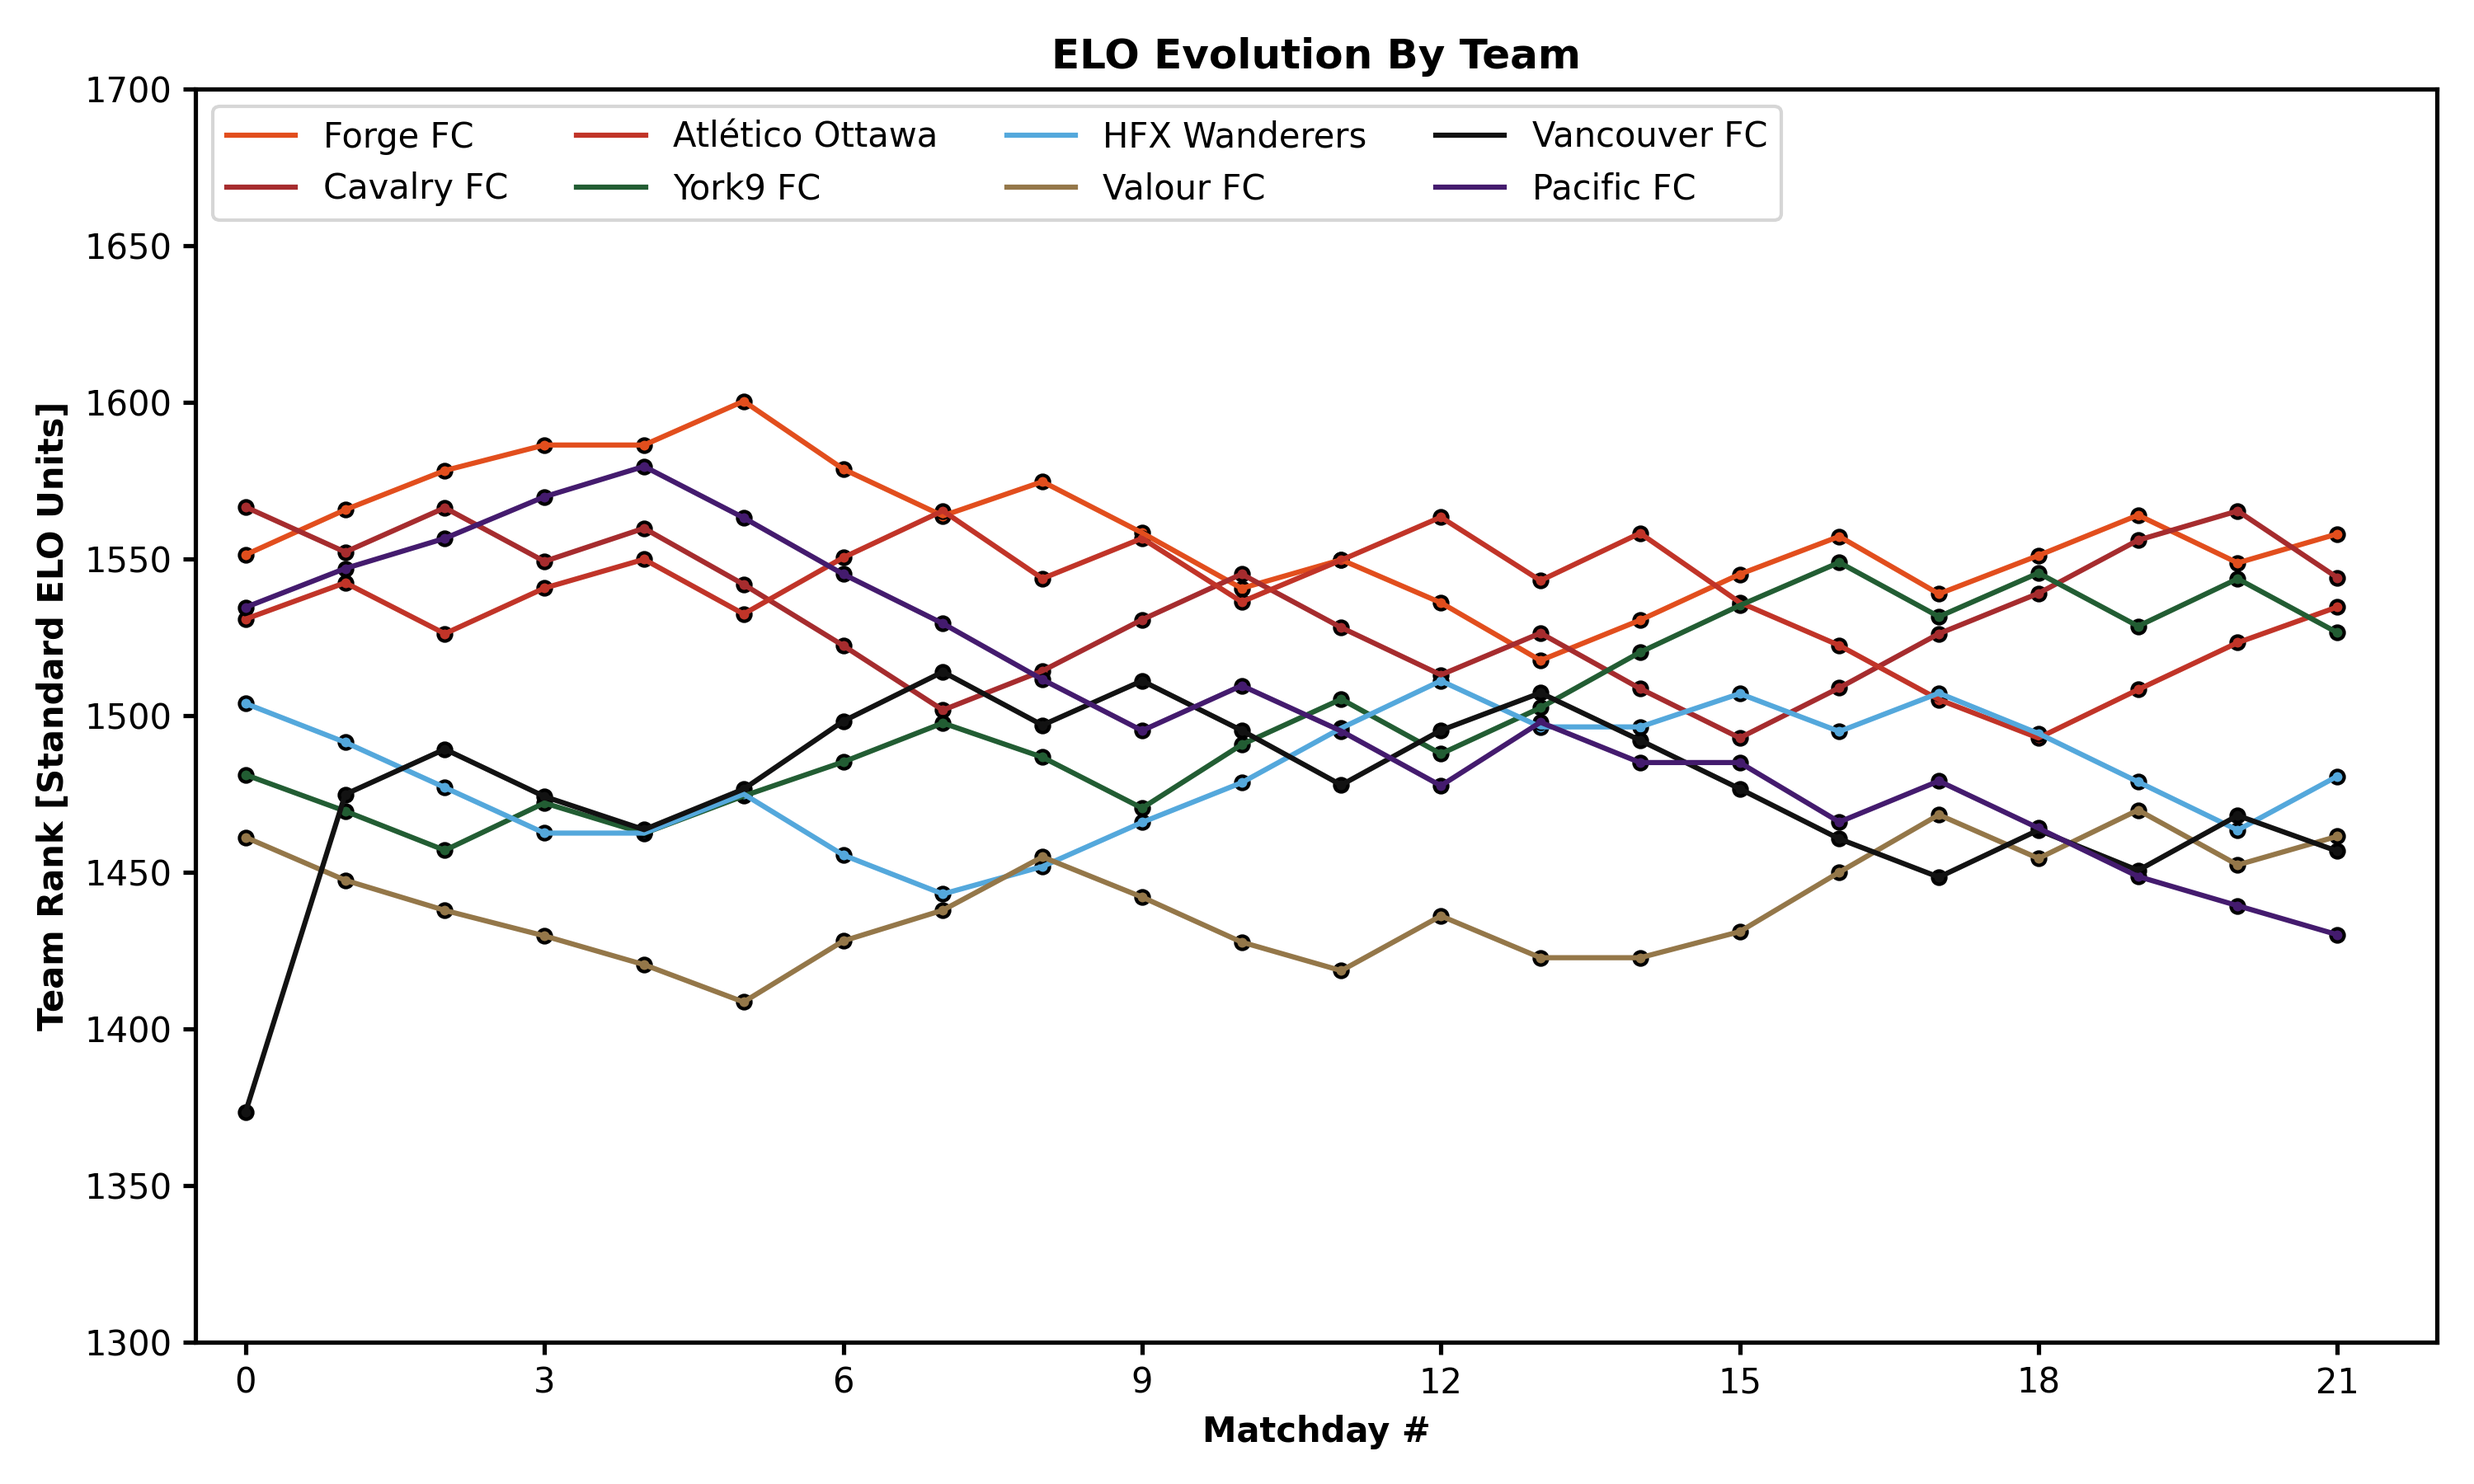
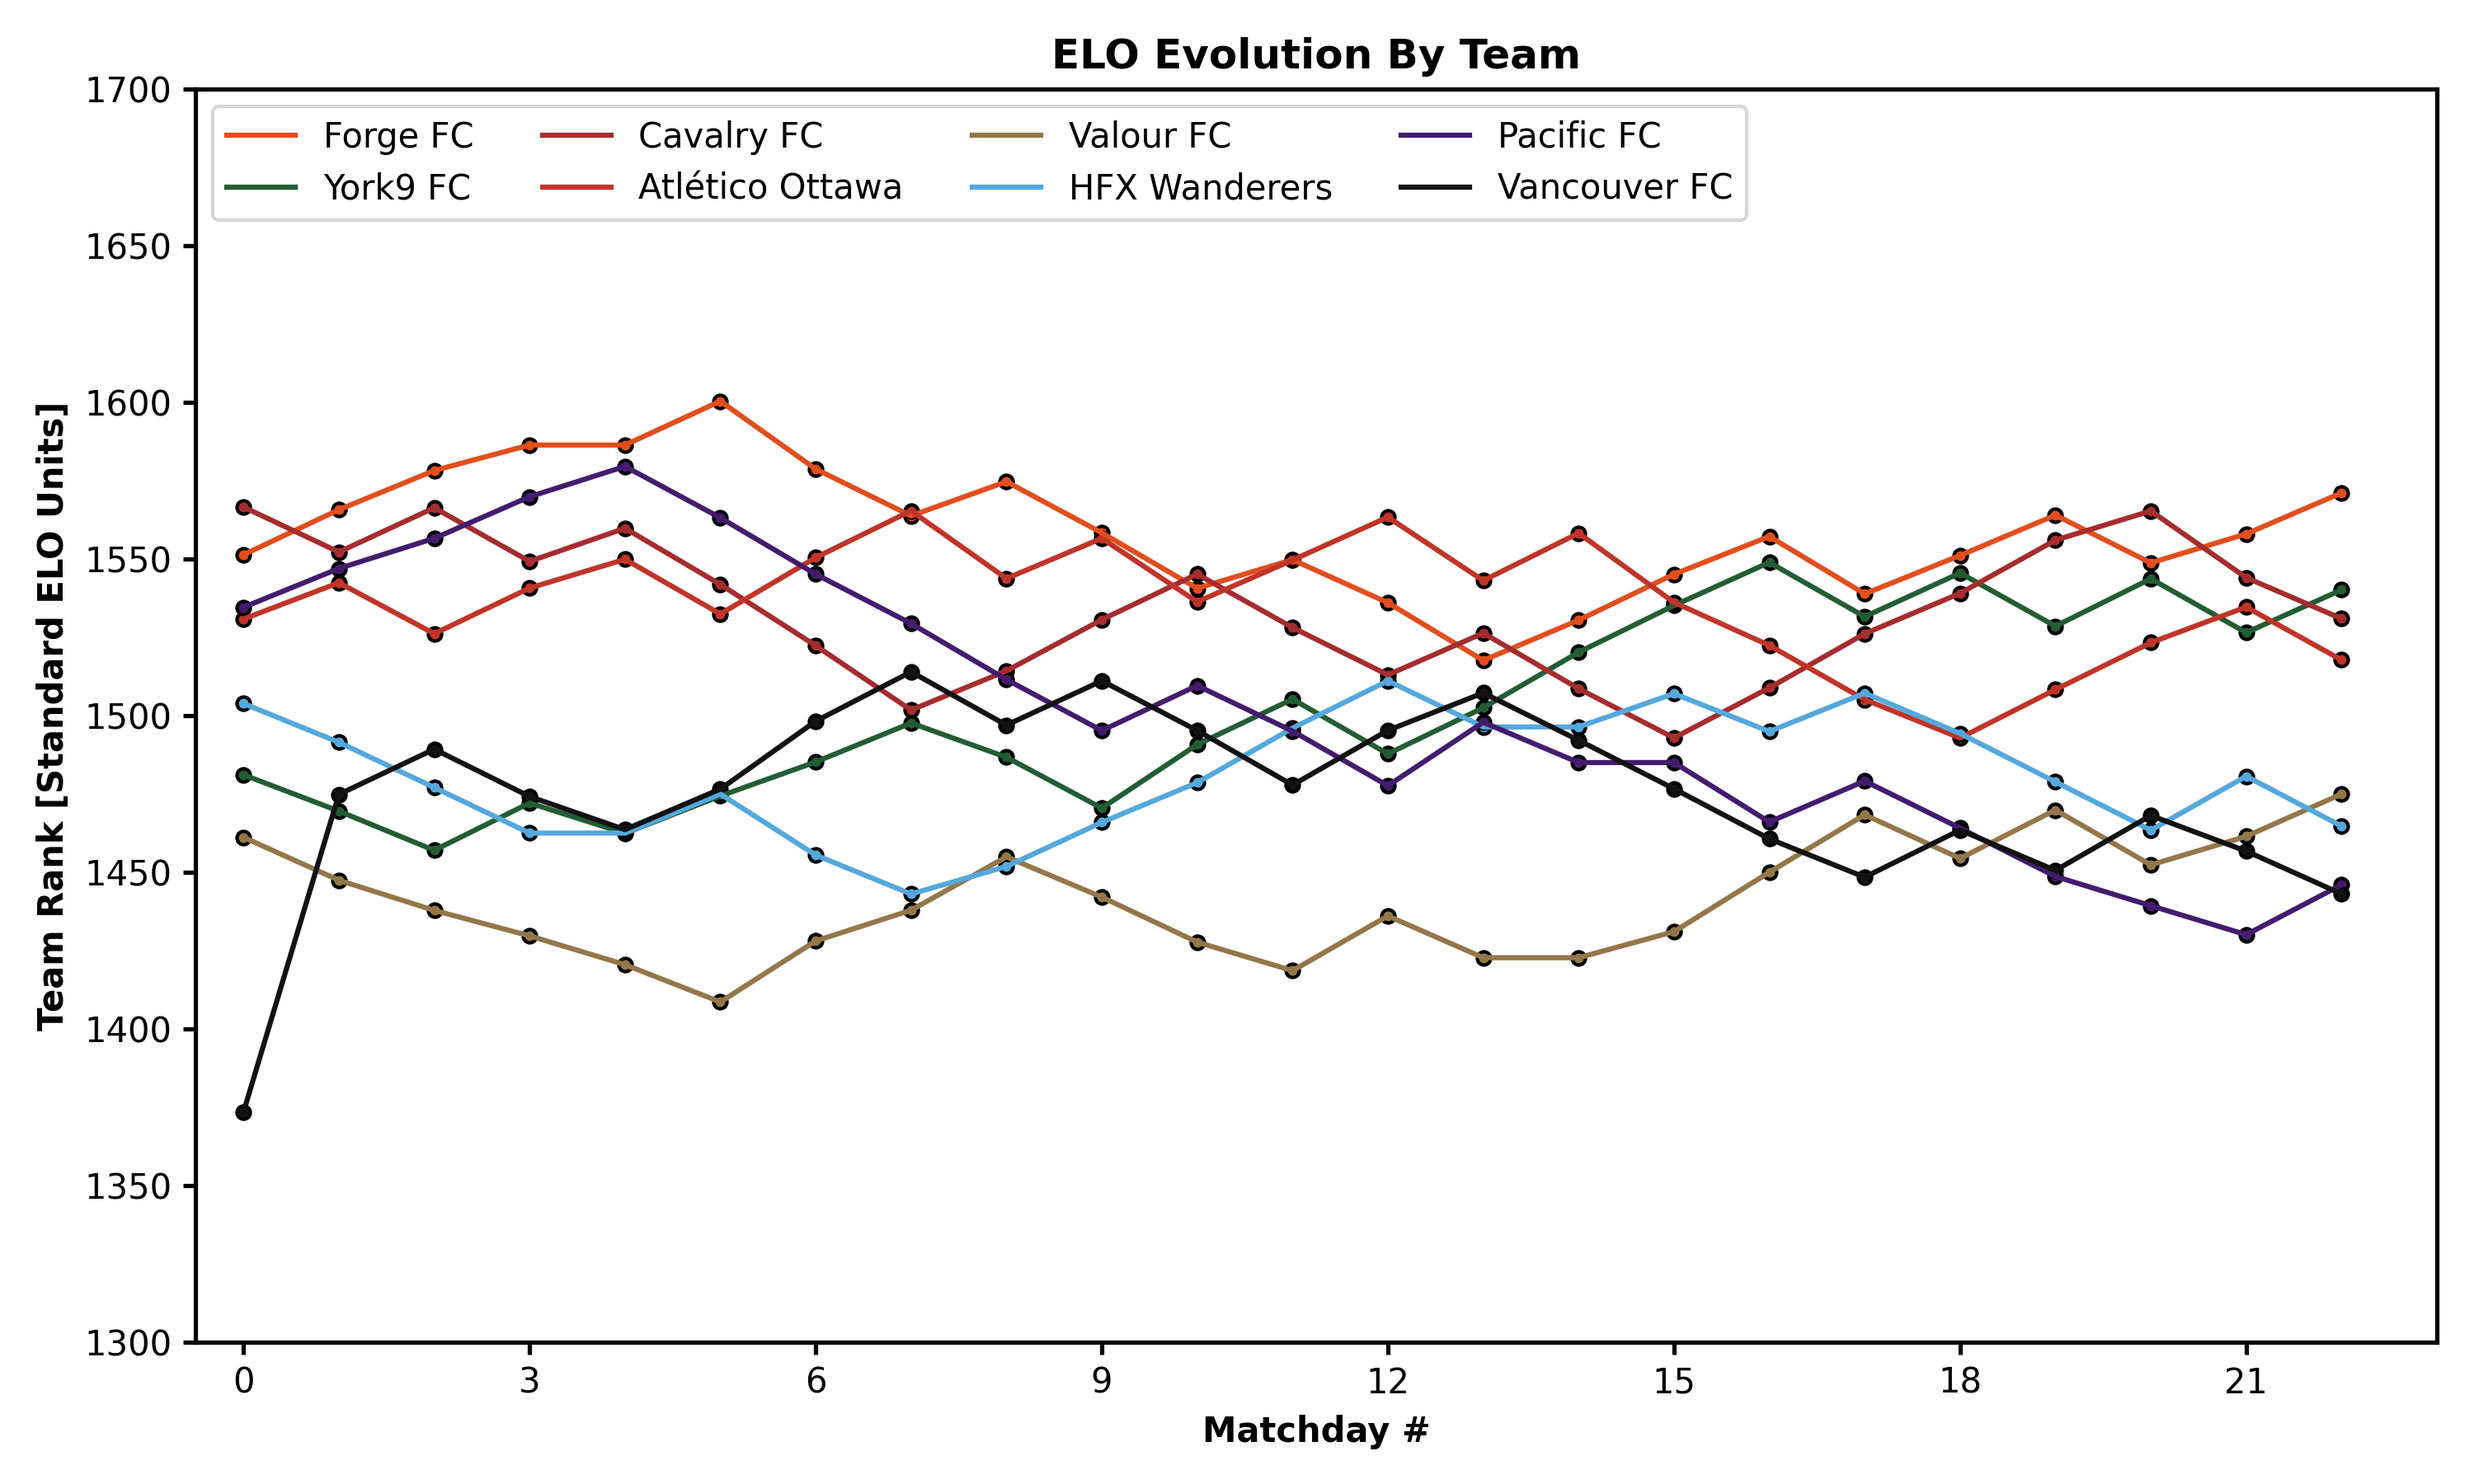
rank updates Sep 11, 2024

diff --git a/index.html b/index.html
@@ -1267,57 +1267,117 @@
       <td>22</td>
       <td>2024-09-06</td>
       <td>Vancouver FC</td>
-      <td/>
+      <td>0–1</td>
       <td>York United</td>
-      <td/>
-      <td/>
+      <td>0</td>
+      <td>1</td>
       <td>44.91%</td>
       <td>55.09%</td>
-      <td/>
-      <td/>
-      <td/>
-      <td/>
+      <td>True</td>
+      <td>0.202</td>
+      <td>0.214</td>
+      <td>0.145</td>
     </tr>
     <tr>
       <td>22</td>
       <td>2024-09-07</td>
       <td>Forge FC</td>
-      <td/>
+      <td>2–1</td>
       <td>Cavalry FC</td>
-      <td/>
-      <td/>
+      <td>2</td>
+      <td>1</td>
       <td>56.89%</td>
       <td>43.11%</td>
-      <td/>
-      <td/>
-      <td/>
-      <td/>
+      <td>True</td>
+      <td>0.186</td>
+      <td>0.213</td>
+      <td>0.146</td>
     </tr>
     <tr>
       <td>22</td>
       <td>2024-09-07</td>
       <td>Pacific FC</td>
-      <td/>
+      <td>3–0</td>
       <td>HFX Wanderers</td>
-      <td/>
-      <td/>
+      <td>3</td>
+      <td>0</td>
       <td>47.65%</td>
       <td>52.35%</td>
+      <td>False</td>
+      <td>0.274</td>
+      <td>0.214</td>
+      <td>0.143</td>
+    </tr>
+    <tr>
+      <td>22</td>
+      <td>2024-09-09</td>
+      <td>Valour FC</td>
+      <td>1–1</td>
+      <td>Atlético Ottawa</td>
+      <td>1</td>
+      <td>1</td>
+      <td>44.42%</td>
+      <td>55.58%</td>
+      <td>False</td>
+      <td>0.112</td>
+      <td>0.213</td>
+      <td>0.148</td>
+    </tr>
+    <tr>
+      <td>23</td>
+      <td>2024-09-13</td>
+      <td>York United</td>
+      <td/>
+      <td>Valour FC</td>
+      <td/>
+      <td/>
+      <td>63.93%</td>
+      <td>36.07%</td>
       <td/>
       <td/>
       <td/>
       <td/>
     </tr>
     <tr>
-      <td>22</td>
-      <td>2024-09-09</td>
-      <td>Valour FC</td>
+      <td>23</td>
+      <td>2024-09-14</td>
+      <td>HFX Wanderers</td>
+      <td/>
+      <td>Forge FC</td>
+      <td/>
+      <td/>
+      <td>39.77%</td>
+      <td>60.23%</td>
+      <td/>
+      <td/>
+      <td/>
+      <td/>
+    </tr>
+    <tr>
+      <td>23</td>
+      <td>2024-09-14</td>
+      <td>Pacific FC</td>
+      <td/>
+      <td>Vancouver FC</td>
+      <td/>
+      <td/>
+      <td>55.33%</td>
+      <td>44.67%</td>
+      <td/>
+      <td/>
+      <td/>
+      <td/>
+    </tr>
+    <tr>
+      <td>23</td>
+      <td>2024-09-15</td>
+      <td>Cavalry FC</td>
       <td/>
       <td>Atlético Ottawa</td>
       <td/>
       <td/>
-      <td>44.42%</td>
-      <td>55.58%</td>
+      <td>56.79%</td>
+      <td>43.21%</td>
       <td/>
       <td/>
       <td/>
@@ -1338,95 +1398,95 @@
   <thead>
     <tr style="text-align: right;">
       <th>Team</th>
-      <th>Rank Into Matchday 16</th>
       <th>Rank Into Matchday 17</th>
       <th>Rank Into Matchday 18</th>
       <th>Rank Into Matchday 19</th>
       <th>Rank Into Matchday 20</th>
       <th>Rank Into Matchday 21</th>
       <th>Rank Into Matchday 22</th>
+      <th>Rank Into Matchday 23</th>
     </tr>
   </thead>
   <tbody>
     <tr>
       <td>Forge FC</td>
-      <td>1545</td>
       <td>1557</td>
       <td>1539</td>
       <td>1551</td>
       <td>1564</td>
       <td>1549</td>
       <td>1558</td>
-    </tr>
-    <tr>
-      <td>Cavalry FC</td>
-      <td>1493</td>
-      <td>1509</td>
-      <td>1526</td>
-      <td>1539</td>
-      <td>1556</td>
-      <td>1565</td>
-      <td>1544</td>
-    </tr>
-    <tr>
-      <td>Atlético Ottawa</td>
-      <td>1536</td>
-      <td>1522</td>
-      <td>1505</td>
-      <td>1493</td>
-      <td>1508</td>
-      <td>1523</td>
-      <td>1535</td>
+      <td>1571</td>
     </tr>
     <tr>
       <td>York United</td>
-      <td>1535</td>
       <td>1549</td>
       <td>1532</td>
       <td>1545</td>
       <td>1529</td>
       <td>1544</td>
       <td>1526</td>
+      <td>1540</td>
     </tr>
     <tr>
-      <td>HFX Wanderers</td>
-      <td>1507</td>
-      <td>1495</td>
-      <td>1507</td>
-      <td>1494</td>
-      <td>1479</td>
-      <td>1463</td>
-      <td>1481</td>
+      <td>Cavalry FC</td>
+      <td>1509</td>
+      <td>1526</td>
+      <td>1539</td>
+      <td>1556</td>
+      <td>1565</td>
+      <td>1544</td>
+      <td>1531</td>
+    </tr>
+    <tr>
+      <td>Atlético Ottawa</td>
+      <td>1522</td>
+      <td>1505</td>
+      <td>1493</td>
+      <td>1508</td>
+      <td>1523</td>
+      <td>1535</td>
+      <td>1518</td>
     </tr>
     <tr>
       <td>Valour FC</td>
-      <td>1431</td>
       <td>1450</td>
       <td>1468</td>
       <td>1454</td>
       <td>1470</td>
       <td>1452</td>
       <td>1461</td>
+      <td>1475</td>
     </tr>
     <tr>
-      <td>Vancouver FC</td>
-      <td>1477</td>
-      <td>1461</td>
-      <td>1448</td>
+      <td>HFX Wanderers</td>
+      <td>1495</td>
+      <td>1507</td>
+      <td>1494</td>
+      <td>1479</td>
       <td>1463</td>
-      <td>1451</td>
-      <td>1468</td>
-      <td>1457</td>
+      <td>1481</td>
+      <td>1465</td>
     </tr>
     <tr>
       <td>Pacific FC</td>
-      <td>1485</td>
       <td>1466</td>
       <td>1479</td>
       <td>1464</td>
       <td>1449</td>
       <td>1439</td>
       <td>1430</td>
+      <td>1446</td>
+    </tr>
+    <tr>
+      <td>Vancouver FC</td>
+      <td>1461</td>
+      <td>1448</td>
+      <td>1463</td>
+      <td>1451</td>
+      <td>1468</td>
+      <td>1457</td>
+      <td>1443</td>
     </tr>
   </tbody>
 </table>
